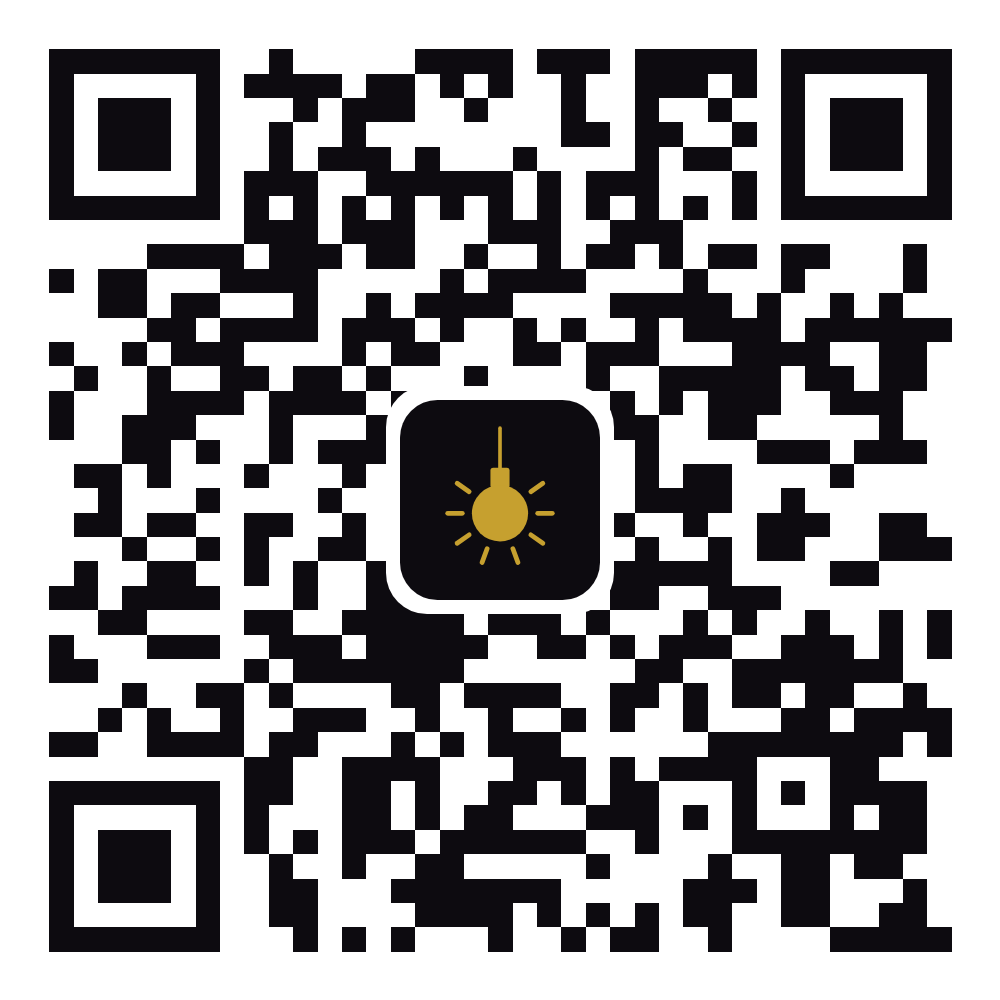
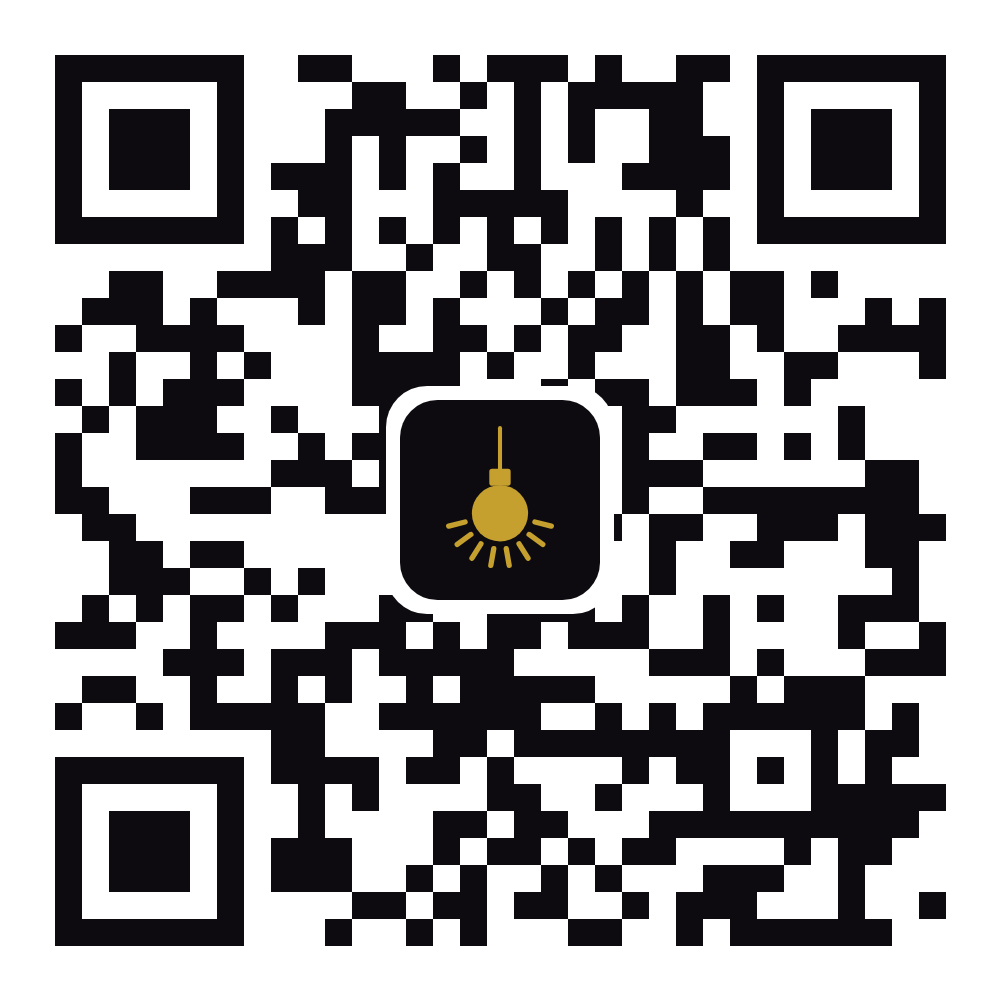
Los QR vuelven a apuntar a la direccion que elegimos
El 14/10 quedó decidido que la dirección que se reparte es sotano.web.app.
Los QR de las mesas se habían generado el 12/10, dos días antes, contra
el-sotano-bar.web.app, y nunca se regeneraron: los PNG del repo —los que
están impresos y pegados en las mesas— apuntaban al dominio equivocado.

Hoy funcionan igual porque los tres sitios sirven los mismos archivos. Pero
el día que uno tenga dominio propio, o se apague, el cartel de la mesa
manda a donde no es. Y un QR impreso no se corrige con un despliegue.

Los 13 se regeneraron y se decodificaron uno por uno. LEEME y el alta de
usuarios también decían la dirección vieja.

El authDomain de config.js queda como está: es de Firebase Auth y no tiene
nada que ver con esto.

Claude-Session: https://claude.ai/code/session_01C7DVbeDfnA9rJSgNKzbhLE

diff --git a/LEEME.md b/LEEME.md
@@ -3,8 +3,8 @@
 Los clientes escanean el QR de su mesa, ven la carta y piden desde el celular.
 La barra ve los pedidos entrar en vivo y los va moviendo hasta entregarlos.
 
-- **Cliente:** https://el-sotano-bar.web.app
-- **Barra:** https://el-sotano-bar.web.app/bar.html
+- **Cliente:** https://sotano.web.app
+- **Barra:** https://sotano.web.app/bar.html
 - **Proyecto Firebase:** `el-sotano-bar` (Firestore en São Paulo, plan Spark)
 
 ---

diff --git a/DESPLEGAR.md b/DESPLEGAR.md
@@ -72,7 +72,7 @@ Si algo falla, se detiene ahí y dice qué pasó. No sigue a ver si funciona.
 
 ## Qué mirar después de cada bloque
 
-En **https://el-sotano-bar.web.app/bar.html**.
+En **https://sotano.web.app/bar.html**.
 
 Nada de esto vende, carga ni mueve stock: es todo mirar.
 
